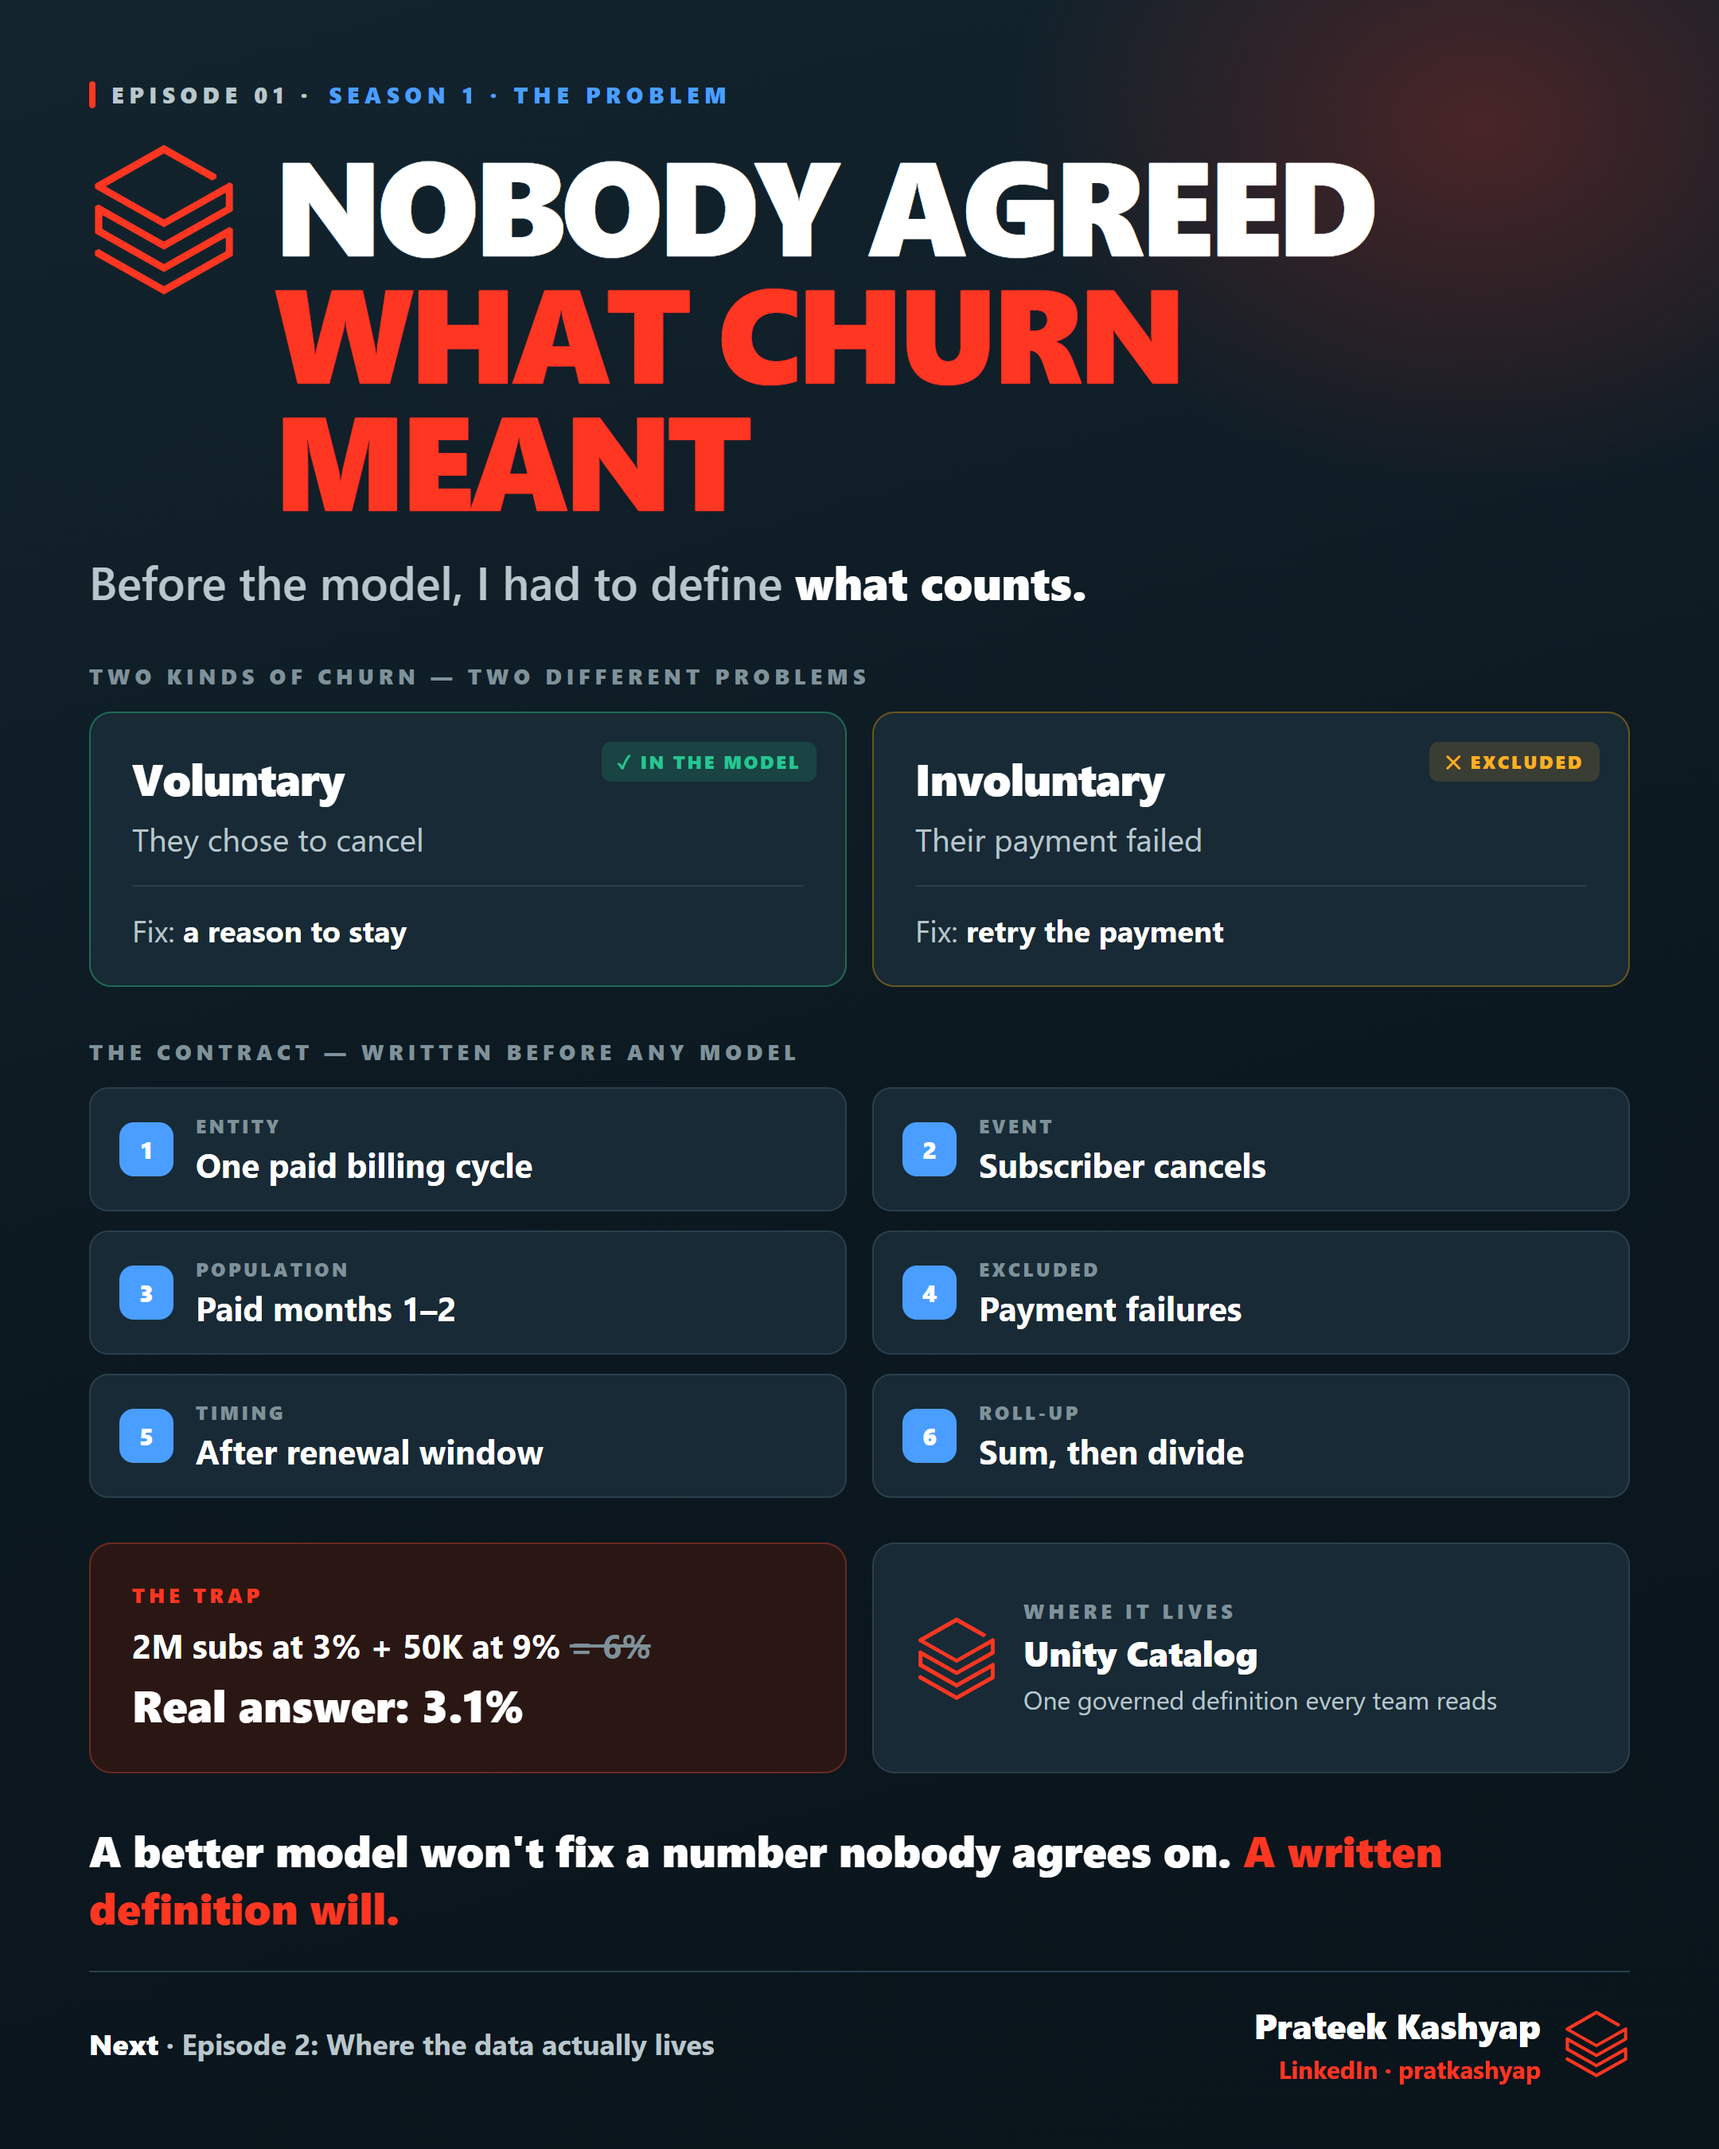
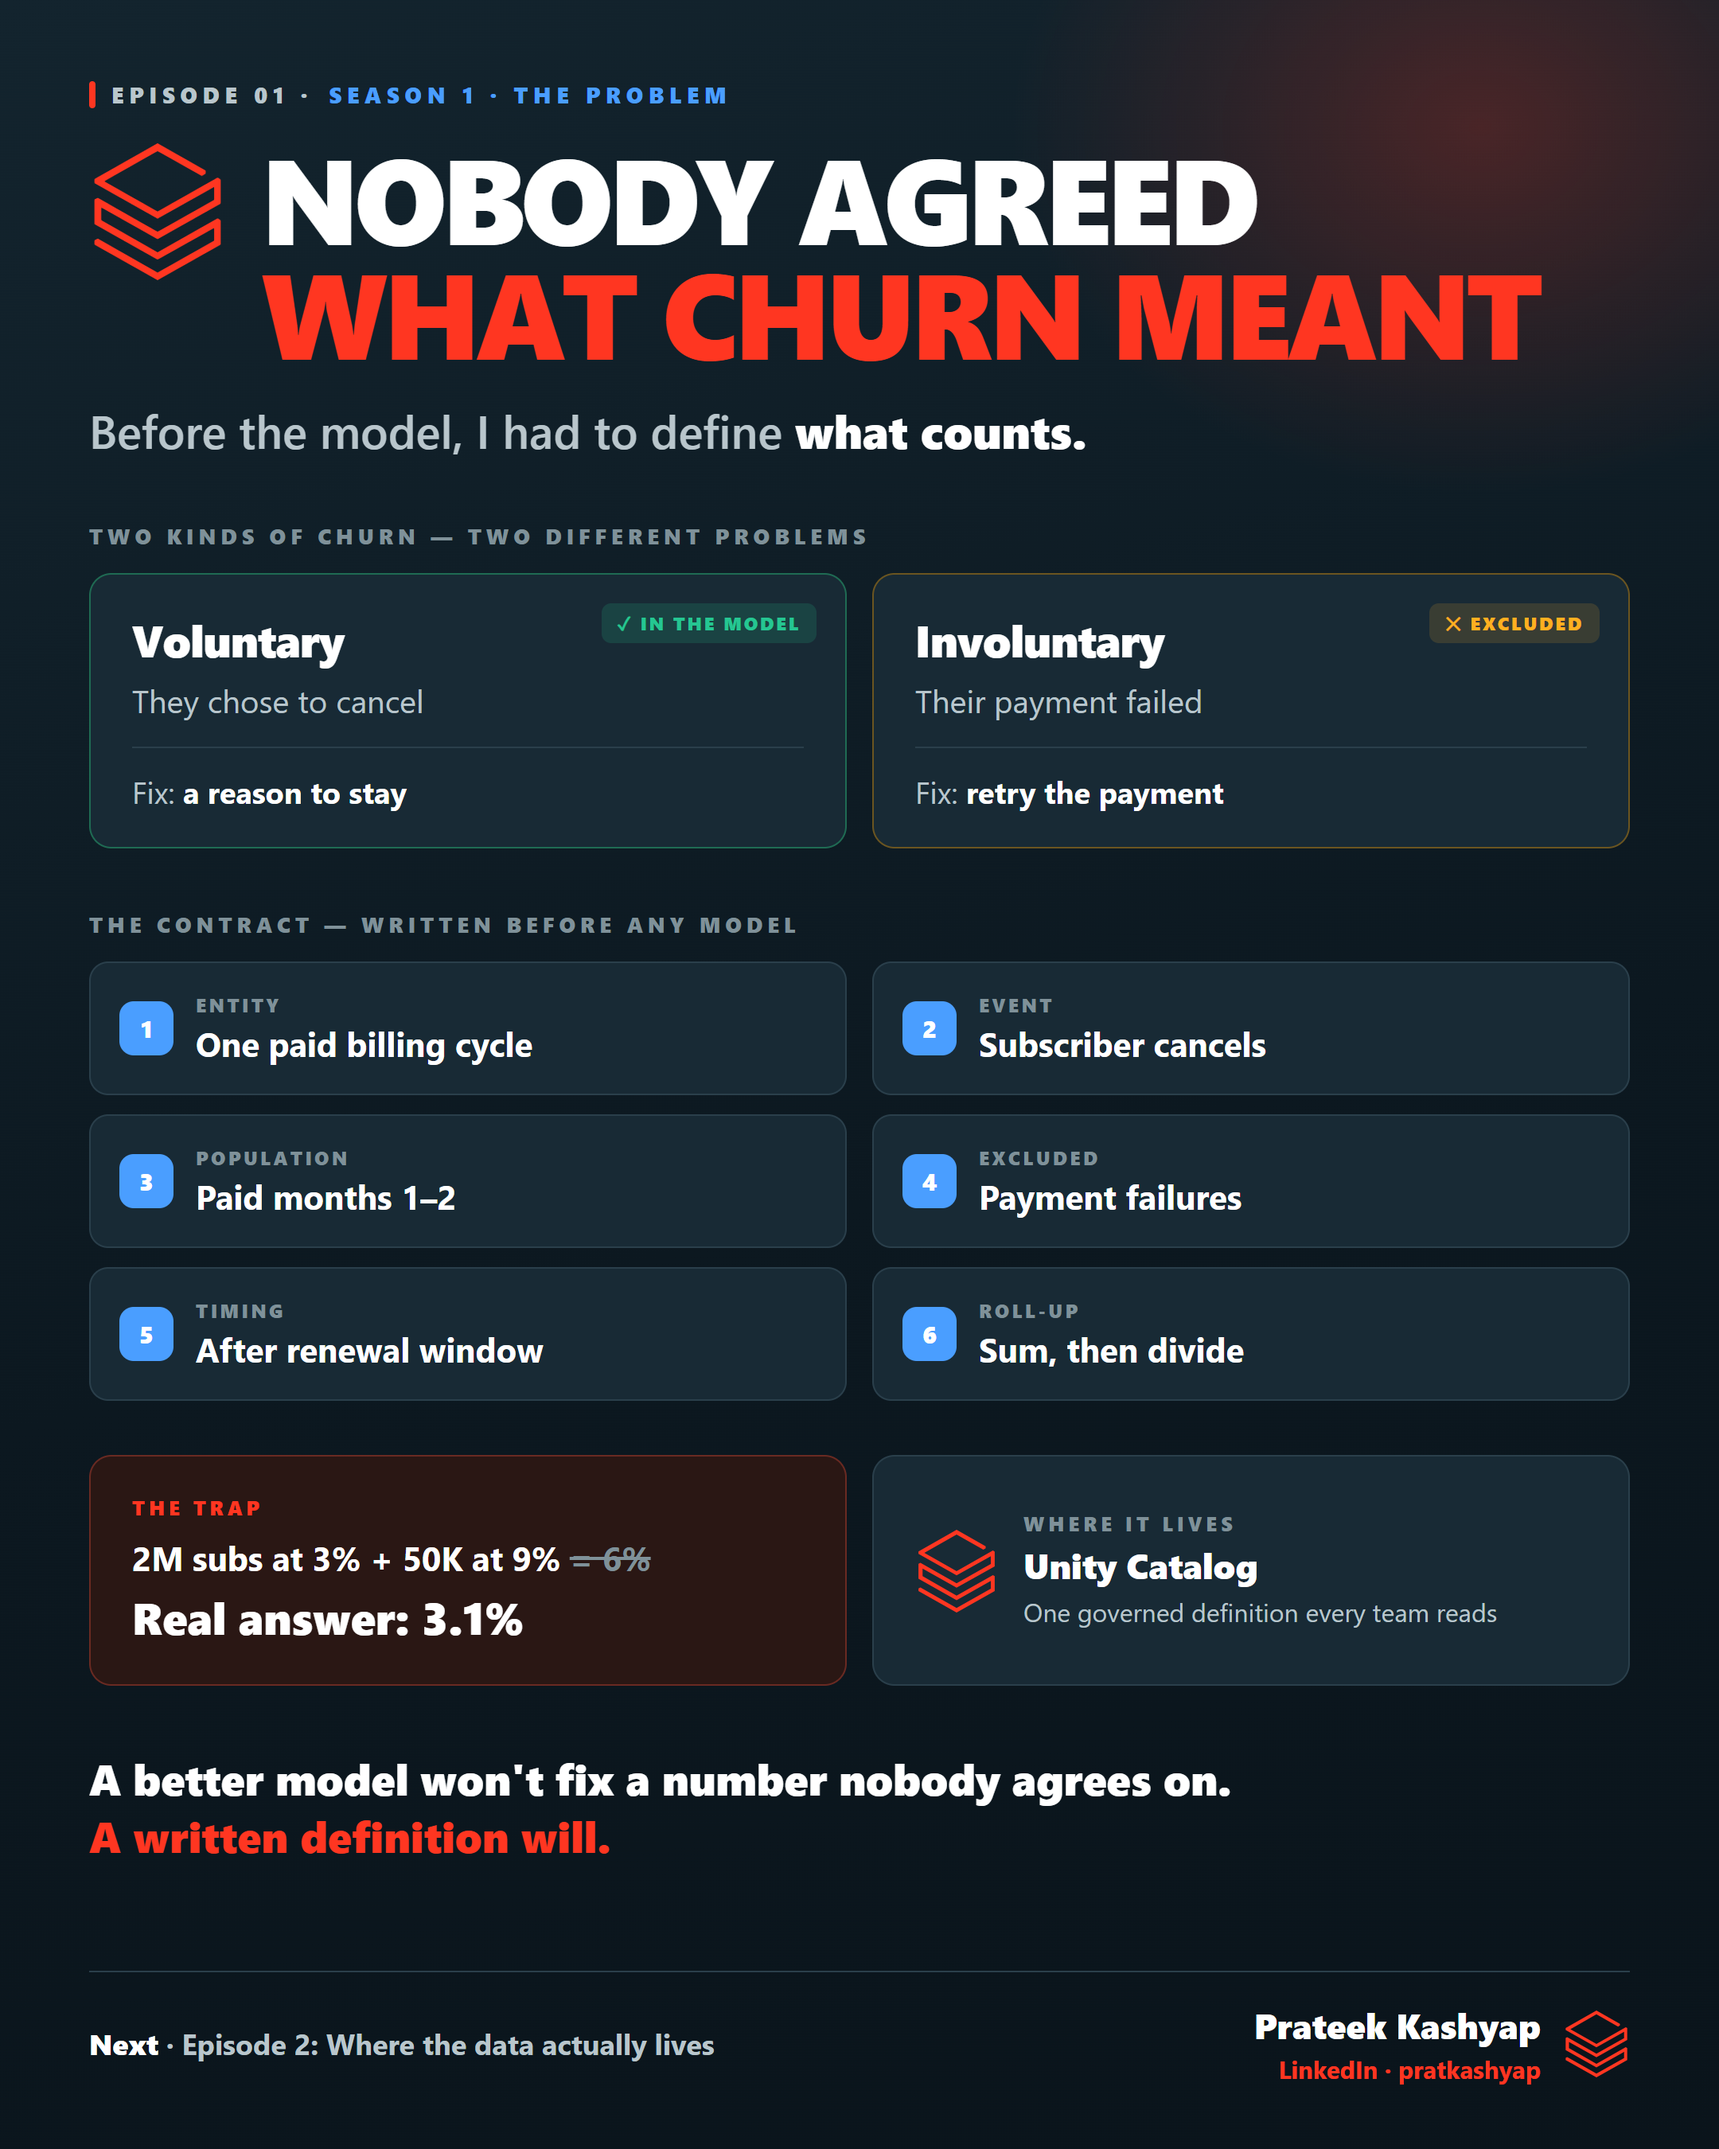
Episode 01 poster: two-line title, takeaway on its own line

diff --git a/episodes/01-nobody-agreed-what-churn-meant/poster.html b/episodes/01-nobody-agreed-what-churn-meant/poster.html
@@ -23,13 +23,13 @@
   .badge i{width:4px;height:17px;background:var(--red);border-radius:2px;display:block}
   .badge .s{color:var(--s1)}
   .title{display:grid;grid-template-columns:auto 1fr;column-gap:22px;margin-top:18px;align-items:start}
-  .logo{width:94px;height:94px;margin-top:4px}
-  h1{font-size:84px;line-height:.95;letter-spacing:-.04em;font-weight:900;text-transform:uppercase}
+  .logo{width:86px;height:86px;margin-top:3px}
+  h1{font-size:76px;line-height:.95;letter-spacing:-.04em;font-weight:900;text-transform:uppercase}
   h1 .l2{display:block;color:var(--red)}
   .sub{font-size:29px;font-weight:600;color:var(--ink2);margin-top:20px}
   .sub b{color:#fff;font-weight:800}
 
-  .h{font-size:13.5px;font-weight:800;letter-spacing:.22em;text-transform:uppercase;color:var(--ink3);margin:31px 0 14px}
+  .h{font-size:13.5px;font-weight:800;letter-spacing:.22em;text-transform:uppercase;color:var(--ink3);margin:38px 0 15px}
 
   /* two kinds */
   .two{display:grid;grid-template-columns:1fr 1fr;gap:16px}
@@ -44,13 +44,13 @@
 
   /* contract */
   .grid{display:grid;grid-template-columns:1fr 1fr;gap:12px 16px}
-  .r{display:flex;align-items:center;gap:14px;background:var(--card);border:1.5px solid var(--line);border-radius:12px;padding:15px 18px}
+  .r{display:flex;align-items:center;gap:14px;background:var(--card);border:1.5px solid var(--line);border-radius:12px;padding:18px 18px}
   .r .n{width:34px;height:34px;border-radius:9px;background:var(--s1);color:#fff;font-size:15px;font-weight:900;display:flex;align-items:center;justify-content:center;flex:none}
   .r .f{font-size:12px;font-weight:800;letter-spacing:.14em;text-transform:uppercase;color:var(--ink3)}
   .r .d{font-size:21px;font-weight:700;margin-top:2px}
 
   /* bottom row */
-  .row{display:grid;grid-template-columns:1fr 1fr;gap:16px;margin-top:28px}
+  .row{display:grid;grid-template-columns:1fr 1fr;gap:16px;margin-top:34px}
   .trap{background:#2a1714;border:1.5px solid #6a2a22;border-radius:14px;padding:24px 26px}
   .trap .th{font-size:12.5px;font-weight:800;letter-spacing:.2em;text-transform:uppercase;color:var(--red)}
   .trap .tq{font-size:21px;font-weight:700;margin-top:9px;line-height:1.35}
@@ -62,7 +62,7 @@
   .db .dt{font-size:22px;font-weight:900;margin-top:3px}
   .db .dd{font-size:16px;color:var(--ink2);margin-top:4px;line-height:1.35}
 
-  .take{margin-top:30px;font-size:27px;font-weight:800;line-height:1.35}
+  .take{margin-top:40px;font-size:27px;font-weight:800;line-height:1.35}
   .take span{color:var(--red)}
 
   .foot{margin-top:auto;padding-top:18px;border-top:1.5px solid var(--line);display:flex;align-items:center;justify-content:space-between}
@@ -117,7 +117,7 @@
     </div>
   </div>
 
-  <div class="take">A better model won't fix a number nobody agrees on. <span>A written definition will.</span></div>
+  <div class="take">A better model won't fix a number nobody agrees on.<br><span>A written definition will.</span></div>
 
   <div class="foot">
     <div class="fl"><b>Next</b> · Episode 2: Where the data actually lives</div>
